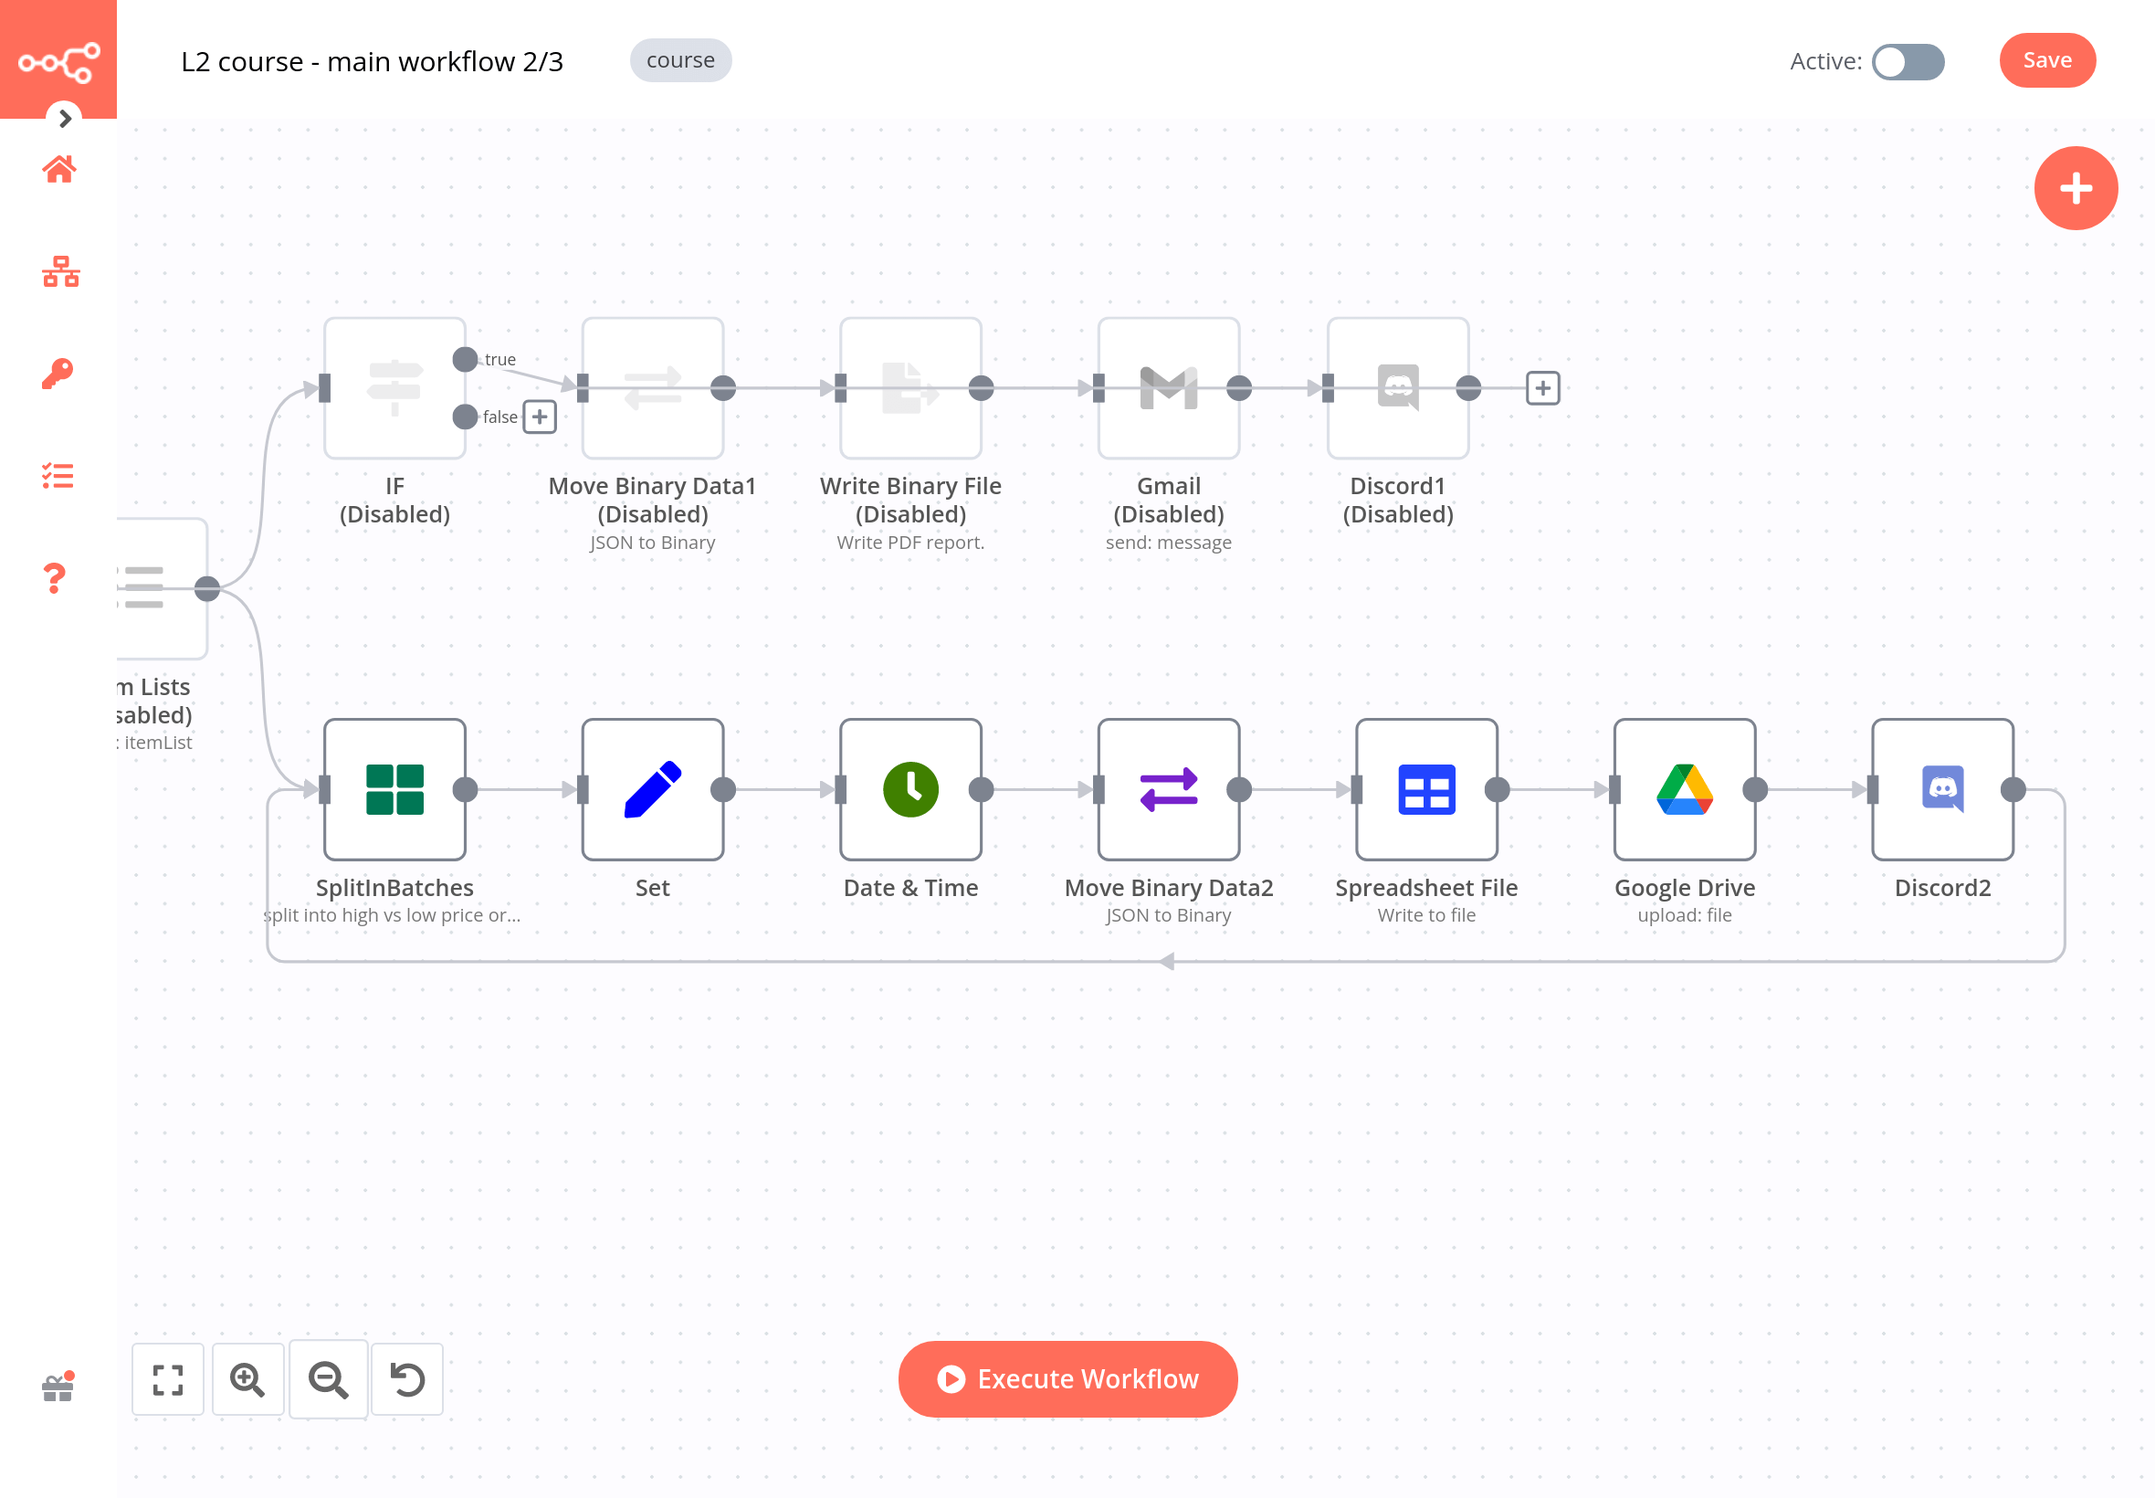
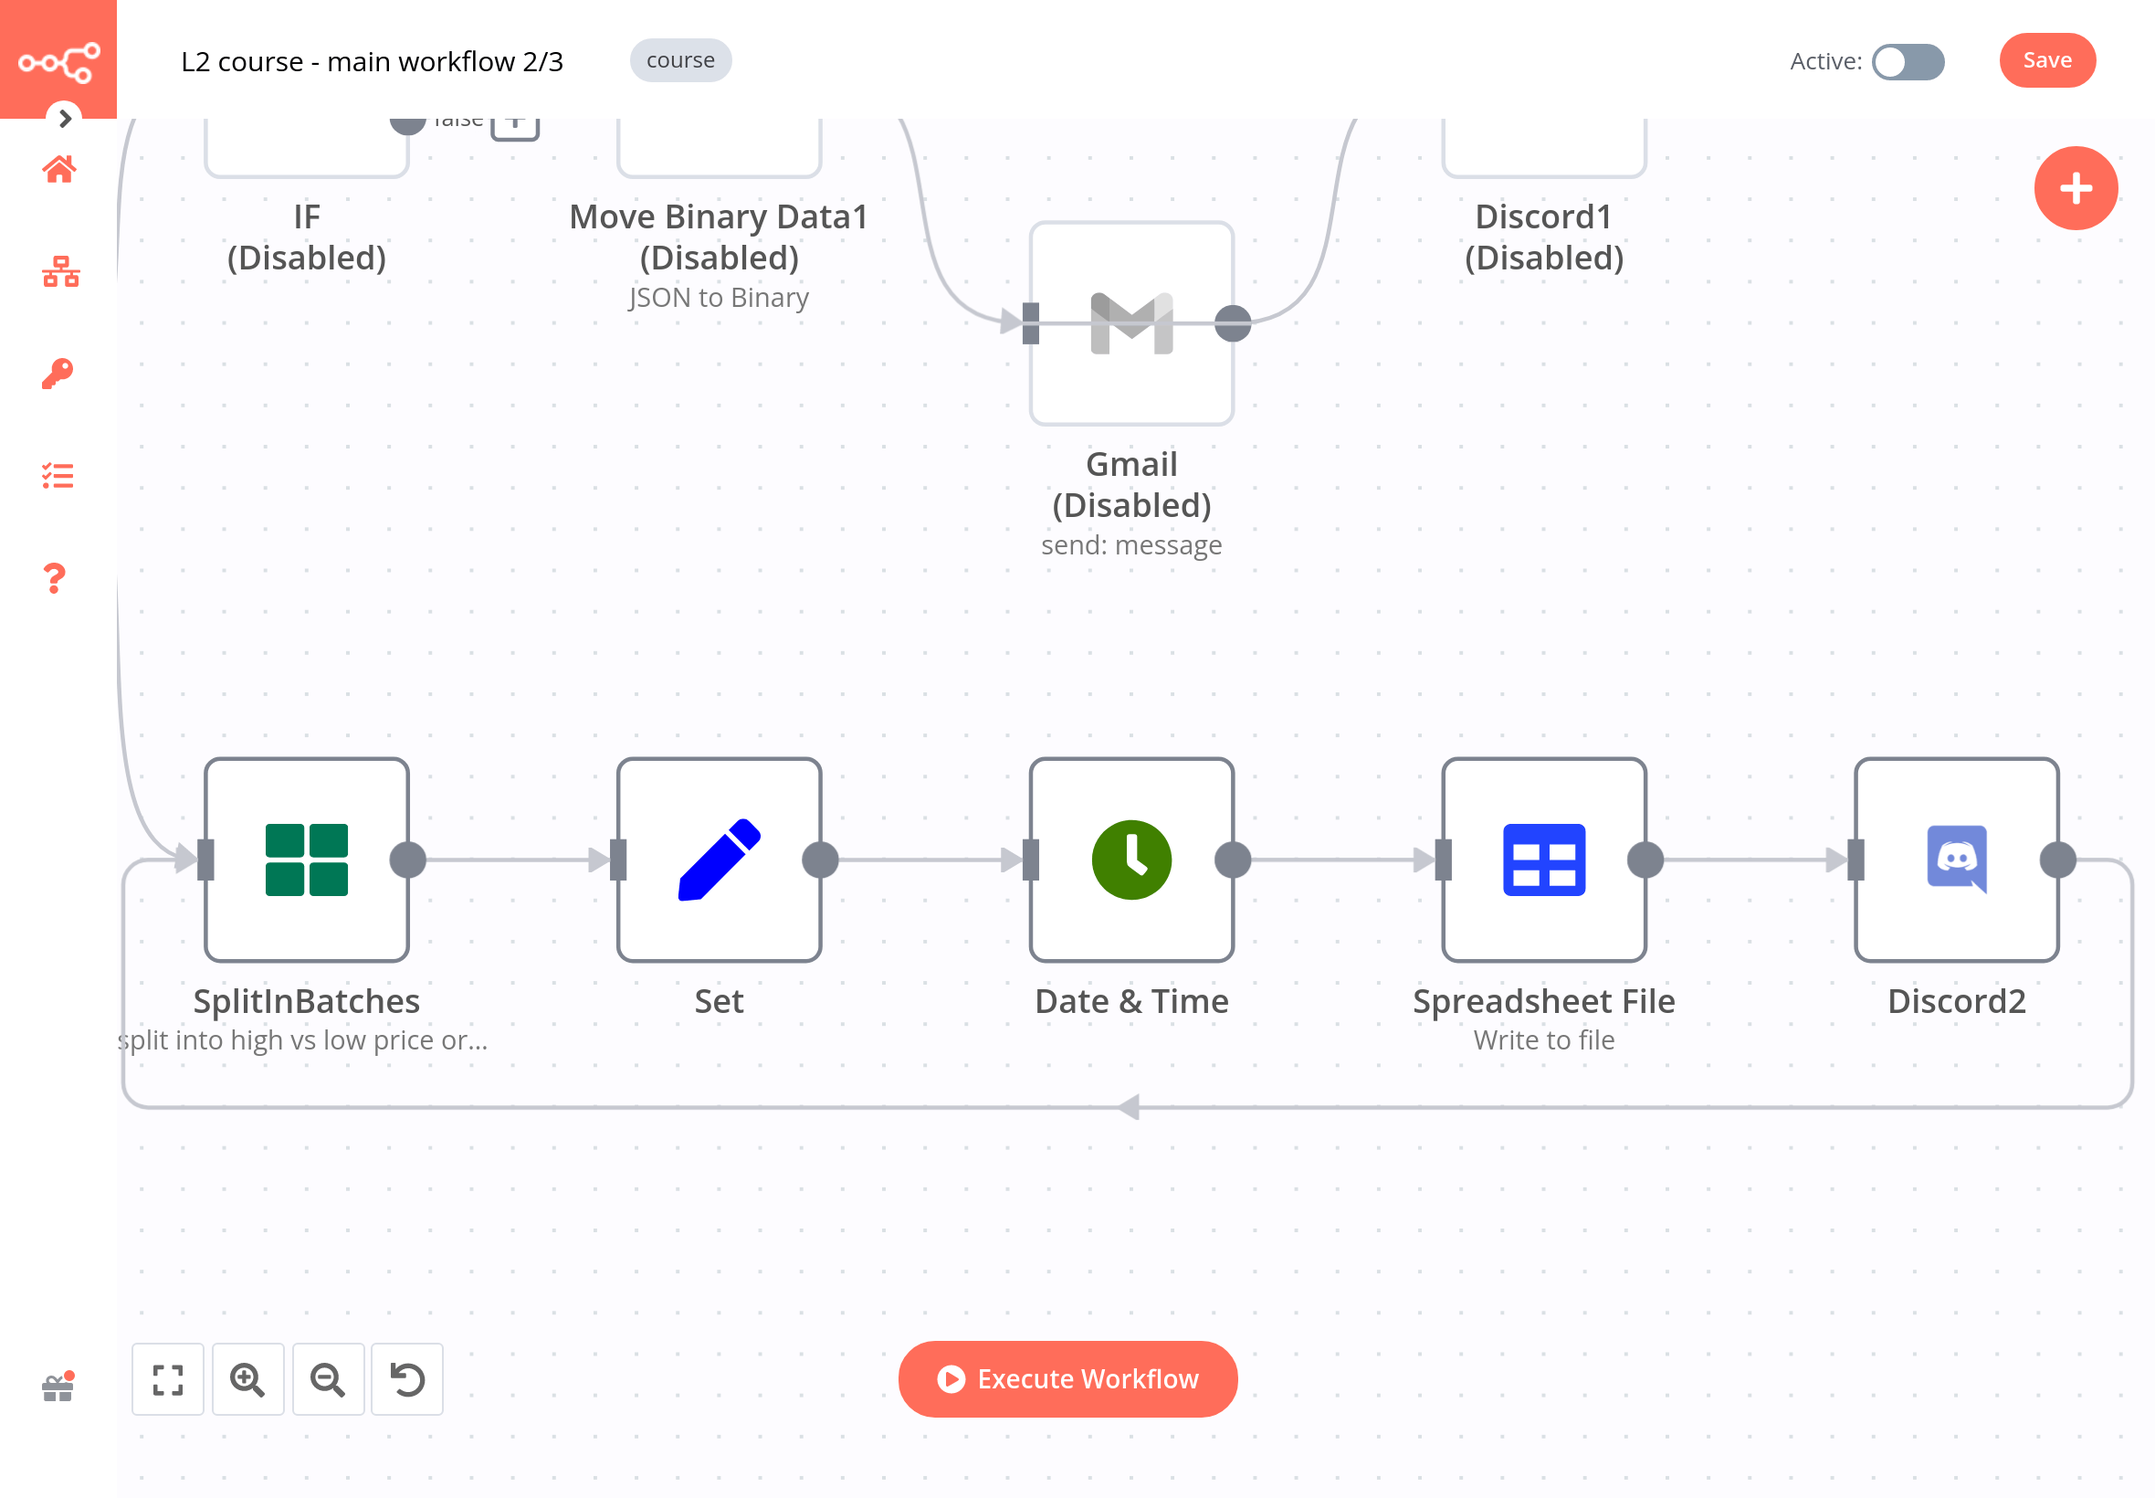
fix course l2 milestones, screenshots

diff --git a/docs/courses/level-two/chapter-5/chapter-5.2.md b/docs/courses/level-two/chapter-5/chapter-5.2.md
@@ -39,9 +39,9 @@ The second part of the workflow consists of five nodes:
 
 1. Use the [IF node](/integrations/core-nodes/n8n-nodes-base.if/) to filter order from the region Americas.
 2. Use the [Move Binary Data node](/integrations/core-nodes/n8n-nodes-base.moveBinaryData/) to transform the incoming data from JSON to binary format. Note that you need to convert all data.
-3. Use the [Write Binary File node](/integrations/core-nodes/n8n-nodes-base.writeBinaryFile/) to generate a PDF file.
-4. Use the [Gmail node](/integrations/nodes/n8n-nodes-base.gmail/) (or another email node) to send the PDF file via email to an address you have access to.
-5. Use the [Discord node](/integrations/nodes/n8n-nodes-base.discord/) to send a message in the n8n Discord channel `#course-level-two` with the Text: "I sent the PDF via email. My ID:" followed by your ID.
+3. Use the [Write Binary File node](/integrations/core-nodes/n8n-nodes-base.writeBinaryFile/) to create and store files with the orders information. In the File Name field, use an expression to include the oder id in the file name, like this: `report_orderID{oder_id}.json` (you need to replace the `{order id}` with the reference the Move Binary Data node).
+4. Use the [Gmail node](/integrations/nodes/n8n-nodes-base.gmail/) (or another email node) to send the files via email to an address you have access to. Note that you need to add an attachment with the data property.
+5. Use the [Discord node](/integrations/nodes/n8n-nodes-base.discord/) to send a message in the n8n Discord channel `#course-level-two` with the Text: "I sent the file via email with the label ID `{label ID}` and wrote the binary file `{file name}`. My ID: " followed by your ID. Note that you need to replace the text in curly braces `{}` with expressions that reference the data from the nodes.
 
 !!! question "Quiz questions"
 
@@ -58,11 +58,9 @@ The third part of the workflow consists of seven nodes:
 1. Use the [Split In Batches node](/integrations/core-nodes/n8n-nodes-base.splitInBatches/) to split data from the Item Lists node into batches of 5.
 2. Use the [Set node](/integrations/core-nodes/n8n-nodes-base.set/) to set four values, referenced with expressions from the previous node: `customerEmail`, `customerRegion`, `customerSince`, and `orderPrice`.
 3. Use the [Date & Time node](/integrations/core-nodes/n8n-nodes-base.dateTime/) to change the date format of the field `customerSince` to the format MM/DD/YYYY.
-4. Use the [Move Binary Data node](/integrations/core-nodes/n8n-nodes-base.moveBinaryData/) to transform the incoming data from JSON to binary format. Note that you need to convert all data.
-5. Use the [Spreadsheet File node](/integrations/core-nodes/n8n-nodes-base.spreadsheetFile/) to create a spreadsheet with the file name set as the expression: `{{$runIndex > 0 ? 'file_low_orders':'file_high_orders'}}`.
-6. Use the [Google Drive node](/integrations/nodes/n8n-nodes-base.googleDrive/) to upload the spreadsheet to Google Drive.
-7. Use the [Discord node](/integrations/nodes/n8n-nodes-base.discord/) to send a message in the n8n Discord channel `#course-level-two` with the Text: <br/>
-    "I uploaded the spreadsheet `{file name}`. My ID:" followed by your ID. <br/>
+4. Use the [Spreadsheet File node](/integrations/core-nodes/n8n-nodes-base.spreadsheetFile/) to create a CSV spreadsheet with the file name set as the expression: `{{$runIndex > 0 ? 'file_low_orders':'file_high_orders'}}`.
+5. Use the [Discord node](/integrations/nodes/n8n-nodes-base.discord/) to send a message in the n8n Discord channel `#course-level-two` with the Text: <br/>
+    "I created the spreadsheet `{file name}`. My ID:" followed by your ID. The `{file name}` should be an expression that references data from the Spreadsheet File node.<br/>
 
 !!! question "Quiz questions"
 

diff --git a/docs/courses/level-two/chapter-5/chapter-5.1.md b/docs/courses/level-two/chapter-5/chapter-5.1.md
@@ -1,6 +1,6 @@
 # Workflow 1 – Merging data
 
-The company's customer data is stored in Airtable. It contains notermation about the customers' ID, country, email, and join date, but lacks data about their respective region and subregion. You need to fill in these last two fields in order to create the reports for regional sales.
+The company's customer data is stored in Airtable. It contains information about the customers' ID, country, email, and join date, but lacks data about their respective region and subregion. You need to fill in these last two fields in order to create the reports for regional sales.
 
 To accomplish this task, you first need to make a copy of this [customers table](https://airtable.com/shrZBXHXWvQ57LHuX) in your Airtable account.
 
@@ -8,11 +8,10 @@ To accomplish this task, you first need to make a copy of this [customers table]
 
 Next, you have to build a small workflow that merges data from Airtable and a REST API.
 
-1. Use the [Cron node](/integrations/core-nodes/n8n-nodes-base.cron/) to trigger the workflow on the 1st of every month at 10:00.
-2. Use the [Airtable node](/integrations/nodes/n8n-nodes-base.airtable/) to list the data in the Airtable table named `customers`.
-3. use the [HTTP Request node](/integrations/core-nodes/n8n-nodes-base.httpRequest/) to get data from the REST Countries API: `https://restcountries.com/v3.1/all`. This will return data about world countries. Note that the incoming data needs to be split into items.
-4. Use the [Merge node](/integrations/core-nodes/n8n-nodes-base.merge/) to merge data from Airtable and the Countries API by country name (the common key), represented as `customerCountry` in Airtable and `name.common` in the Countries API, respectively.
-5. Use the Airtable node to update the fields `region` and `subregion` in Airtable with the data from the Countries API.
+1. Use the [Airtable node](/integrations/nodes/n8n-nodes-base.airtable/) to list the data in the Airtable table named `customers`.
+2. use the [HTTP Request node](/integrations/core-nodes/n8n-nodes-base.httpRequest/) to get data from the REST Countries API: `https://restcountries.com/v3.1/all`. This will return data about world countries. Note that the incoming data needs to be split into items.
+3. Use the [Merge node](/integrations/core-nodes/n8n-nodes-base.merge/) to merge data from Airtable and the Countries API by country name (the common key), represented as `customerCountry` in Airtable and `name.common` in the Countries API, respectively.
+4. Use the Airtable node to update the fields `region` and `subregion` in Airtable with the data from the Countries API.
 
 The workflow should look like this:
 

diff --git a/docs/courses/level-two/chapter-3.md b/docs/courses/level-two/chapter-3.md
@@ -14,9 +14,9 @@ Merging data can involve:
 
 !!! note "One-way vs. two-way sync"
 
-		In a one-way sync, data is synchronized in one direction. One system serves as the single source of truth. When notermation changes in that main system, it automatically changes in the secondary system; but if notermation changes in the secondary system, the changes are not reflected in the main system.
+		In a one-way sync, data is synchronized in one direction. One system serves as the single source of truth. When information changes in that main system, it automatically changes in the secondary system; but if information changes in the secondary system, the changes are not reflected in the main system.
 
-		In a two-way sync, data is synchronized in both directions (between both systems). When notermation changes in either of the two systems, it automatically changes in the other one as well.
+		In a two-way sync, data is synchronized in both directions (between both systems). When information changes in either of the two systems, it automatically changes in the other one as well.
 
 		[This blog tutorial](https://n8n.io/blog/how-to-sync-data-between-two-systems/) explains how to sync data one-way and two-way between two CRMs.
 
@@ -46,7 +46,7 @@ Build a workflow that merges data from the Customer Datastore node and Function 
 
 * Add a Merge node that takes Input 1 from a Customer Datastore node and Input 2 from a Function node.
 * In the Customer Datastore node, run the operation Get All People.
-* In the Function node, create an array of two objects with three properties: `name`, `language`, and `country`, where the property `country` has two sub-properties `code` and `name`. Fill out the values of these properties with the notermation of two characters from the Customer Database. For example, Jay Gatsby's language would be English and country name would be United States.
+* In the Function node, create an array of two objects with three properties: `name`, `language`, and `country`, where the property `country` has two sub-properties `code` and `name`. Fill out the values of these properties with the information of two characters from the Customer Database. For example, Jay Gatsby's language would be English and country name would be United States.
 * In the Merge node, try out different merge modes.
 
 ??? note "Show me the solution"

diff --git a/docs/courses/level-two/chapter-2.md b/docs/courses/level-two/chapter-2.md
@@ -13,7 +13,7 @@ You're most likely familiar with HTML and XML.
 
 If you need to process HTML or XML data in your n8n workflows, use the [HTML Extract node](/integrations/core-nodes/n8n-nodes-base.htmlExtract/) or [XML node](/integrations/core-nodes/n8n-nodes-base.xml/).
 
-The HTML Extract node allows you to extract HTML content of a webpage, by referencing CSS selectors. This is useful if you want to collect structured notermation from a website (web-scraping).
+The HTML Extract node allows you to extract HTML content of a webpage, by referencing CSS selectors. This is useful if you want to collect structured information from a website (web-scraping).
 
 ### Exercise
 
@@ -260,7 +260,7 @@ Build a workflow that adds five days to an input date. Then, if the calculated d
 
 ## Binary data
 
-So far, you have mainly worked with text data. But what if you want to process data that is not text? For example, images or PDF files. This is binary data, as it is represented in the binary numeral system. In this form, binary data doesn't offer you useful notermation, so it needs to be converted into a readable form.
+So far, you have mainly worked with text data. But what if you want to process data that is not text? For example, images or PDF files. This is binary data, as it is represented in the binary numeral system. In this form, binary data doesn't offer you useful information, so it needs to be converted into a readable form.
 
 In n8n, you can process binary data with the following nodes:
 

diff --git a/docs/courses/level-two/chapter-5/chapter-5.0.md b/docs/courses/level-two/chapter-5/chapter-5.0.md
@@ -14,12 +14,12 @@ Now that we have an idea of what Nathan wants to automate, let’s list the step
 
 1. Get and combine data from all necessary sources.
 2. Sort the data and format the dates.
-3. Write binary data (spreadsheet and PDF).
+3. Write binary files.
 4. Send notifications via email and Discord.
 
 n8n provides core nodes for all these steps. This use case is somewhat complex and it will be made up of three separate workflows:
 
-1. A workflow that merges the company data with external notermation.
+1. A workflow that merges the company data with external information.
 2. A workflow that generates the reports.
 3. A workflow that monitors errors in the second workflow.
 
@@ -27,8 +27,8 @@ n8n provides core nodes for all these steps. This use case is somewhat complex a
 
 To build the workflows, you will need the following:
 
-* An [Airtable](https://airtable.com/) account and [credentials]().
-* A [Google](https://www.google.com/account/about/) account and [credentials]() to access Gmail and Google Drive.
+* An [Airtable](https://airtable.com/) account and [credentials](/integrations/credentials/airtable/).
+* A [Google](https://www.google.com/account/about/) account and [credentials](/integrations/credentials/google/) to access Gmail and Google Drive.
 * A [Discord](https://discord.com/) webhook URL.
 
 Next, you will build these three workflows with step-by-step instructions.

diff --git a/docs/courses/level-two/chapter-5/chapter-5.3.md b/docs/courses/level-two/chapter-5/chapter-5.3.md
@@ -8,7 +8,7 @@ To accomplish this task, you have to create an Error workflow that monitors the 
 	* Webhook URL: The URL that you received in the email from n8n when you signed up for this course.
 	* Text: The workflow `{workflow name}` failed, with the error message: `{execution error message}`. Last node executed: `{name of the last executed node}`. Check this workflow execution here: `{execution URL}`.
 
-		Note that you need to replace the text in curly brackets `{}` with expressions that take the respective notermation from the Error Trigger node.<br/>
+		Note that you need to replace the text in curly brackets `{}` with expressions that take the respective information from the Error Trigger node.<br/>
 
 3. Execute the Discord node.
 4. Set the newly created workflow as Error Workflow for the main workflow.
@@ -20,6 +20,6 @@ The workflow should look like this:
 !!! question "Quiz questions"
 
     * What fields does the Error Trigger node return?
-    * What notermation about the execution does the Error Trigger node return?
-    * What notermation about the workflow does the Error Trigger node return?
+    * What information about the execution does the Error Trigger node return?
+    * What information about the workflow does the Error Trigger node return?
     * What is the expression to reference the workflow name?

diff --git a/docs/courses/level-two/index.md b/docs/courses/level-two/index.md
@@ -34,9 +34,9 @@ Completing the course should take around two hours. You do not have to complete 
 
 ## Do I get a certificate?
 
-We believe all good works deserve recognition. If you successfully complete the course, we will email you a **badge** that you can share with your peers to showcase your n8n skills. To get your n8n badge, you need to complete the following milestones:
+We believe all good works deserve recognition. If you successfully complete the course, you will get a **badge** in your [community forum](http://community.n8n.io/) profile to showcase your n8n skills. To get your n8n badge, you need to complete the following milestones:
 
-- [x] [Sign up](https://n8n-community.typeform.com/to/HQoQ7nXg) for the course to get your unique ID and other notermation you will need for the exercises.
-- [x] Automatically generate and email a PDF file.
-- [x] Automatically generate and upload two spreadsheets.
+- [x] [Sign up](https://n8n-community.typeform.com/to/HQoQ7nXg) for the course to get your unique ID and other information you will need for the exercises.
+- [x] Run an HTTP Request to get the data set.
+- [x] Automatically generate binary files and send notifications in Discord.
 - [x] Pass the quiz at the end of the course.
